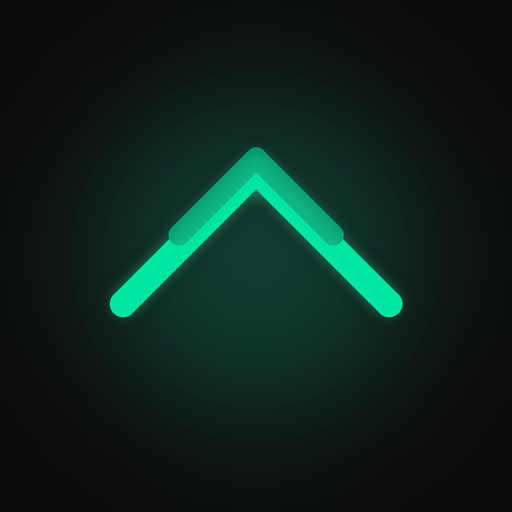
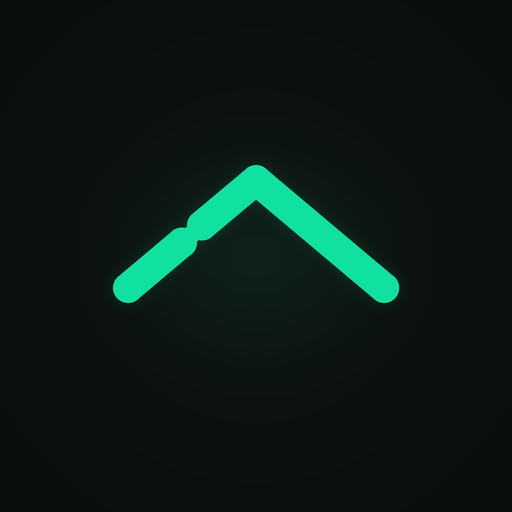
replace brand assets with final EVSpend notch identity

Changed region(s): [[0.1875, 0.25, 0.8125, 0.75]]

diff --git a/sw.js b/sw.js
@@ -14,7 +14,7 @@
  * downloads or fresh-fetch semantics.
  */
 
-const CACHE_VERSION  = 'v20260501-legal9';
+const CACHE_VERSION  = 'v20260502-brand1';
 const STATIC_CACHE   = 'evspend-static-' + CACHE_VERSION;
 const RUNTIME_CACHE  = 'evspend-runtime-' + CACHE_VERSION;
 
@@ -23,8 +23,8 @@ const RUNTIME_CACHE  = 'evspend-runtime-' + CACHE_VERSION;
 const PRECACHE_URLS = [
   '/',
   '/site.webmanifest',
-  '/banner.webp',
-  '/banner.png',
+  '/banner.webp?v=20260502-brand1',
+  '/banner.png?v=20260502-brand1',
   '/favicon-32x32.png',
   '/apple-touch-icon.png',
 ];

diff --git a/index.html b/index.html
@@ -93,8 +93,8 @@
 
 <header class="hero" role="banner">
   <picture>
-    <source srcset="./banner.webp" type="image/webp">
-    <img class="hero-banner" src="./banner.png" alt="EVSpend Banner" width="1024" height="165" fetchpriority="high" decoding="async">
+    <source srcset="./banner.webp?v=20260502-brand1" type="image/webp">
+    <img class="hero-banner" src="./banner.png?v=20260502-brand1" alt="EVSpend Banner" width="1024" height="165" fetchpriority="high" decoding="async">
   </picture>
 
   <div class="hdr">

diff --git a/en-eu/index.html b/en-eu/index.html
@@ -92,8 +92,8 @@
 
 <header class="hero" role="banner">
   <picture>
-    <source srcset="/banner.webp" type="image/webp">
-    <img class="hero-banner" src="/banner.png" alt="EVSpend Banner" width="1024" height="165" fetchpriority="high" decoding="async">
+    <source srcset="/banner.webp?v=20260502-brand1" type="image/webp">
+    <img class="hero-banner" src="/banner.png?v=20260502-brand1" alt="EVSpend Banner" width="1024" height="165" fetchpriority="high" decoding="async">
   </picture>
 
   <div class="hdr">

diff --git a/en-eu/verlauf.html b/en-eu/verlauf.html
@@ -65,8 +65,8 @@
 <header class="hero" role="banner">
   <a href="/en-eu/" aria-label="Back to calculator">
     <picture>
-      <source srcset="/banner.webp" type="image/webp">
-      <img class="hero-banner" src="/banner.png" alt="EVSpend Banner" width="1024" height="165">
+      <source srcset="/banner.webp?v=20260502-brand1" type="image/webp">
+      <img class="hero-banner" src="/banner.png?v=20260502-brand1" alt="EVSpend Banner" width="1024" height="165">
     </picture>
   </a>
 

diff --git a/verlauf.html b/verlauf.html
@@ -64,8 +64,8 @@
 <header class="hero" role="banner">
   <a href="./" aria-label="Zurück zum Rechner">
     <picture>
-      <source srcset="./banner.webp" type="image/webp">
-      <img class="hero-banner" src="./banner.png" alt="EVSpend Banner" width="1024" height="165">
+      <source srcset="./banner.webp?v=20260502-brand1" type="image/webp">
+      <img class="hero-banner" src="./banner.png?v=20260502-brand1" alt="EVSpend Banner" width="1024" height="165">
     </picture>
   </a>
 
